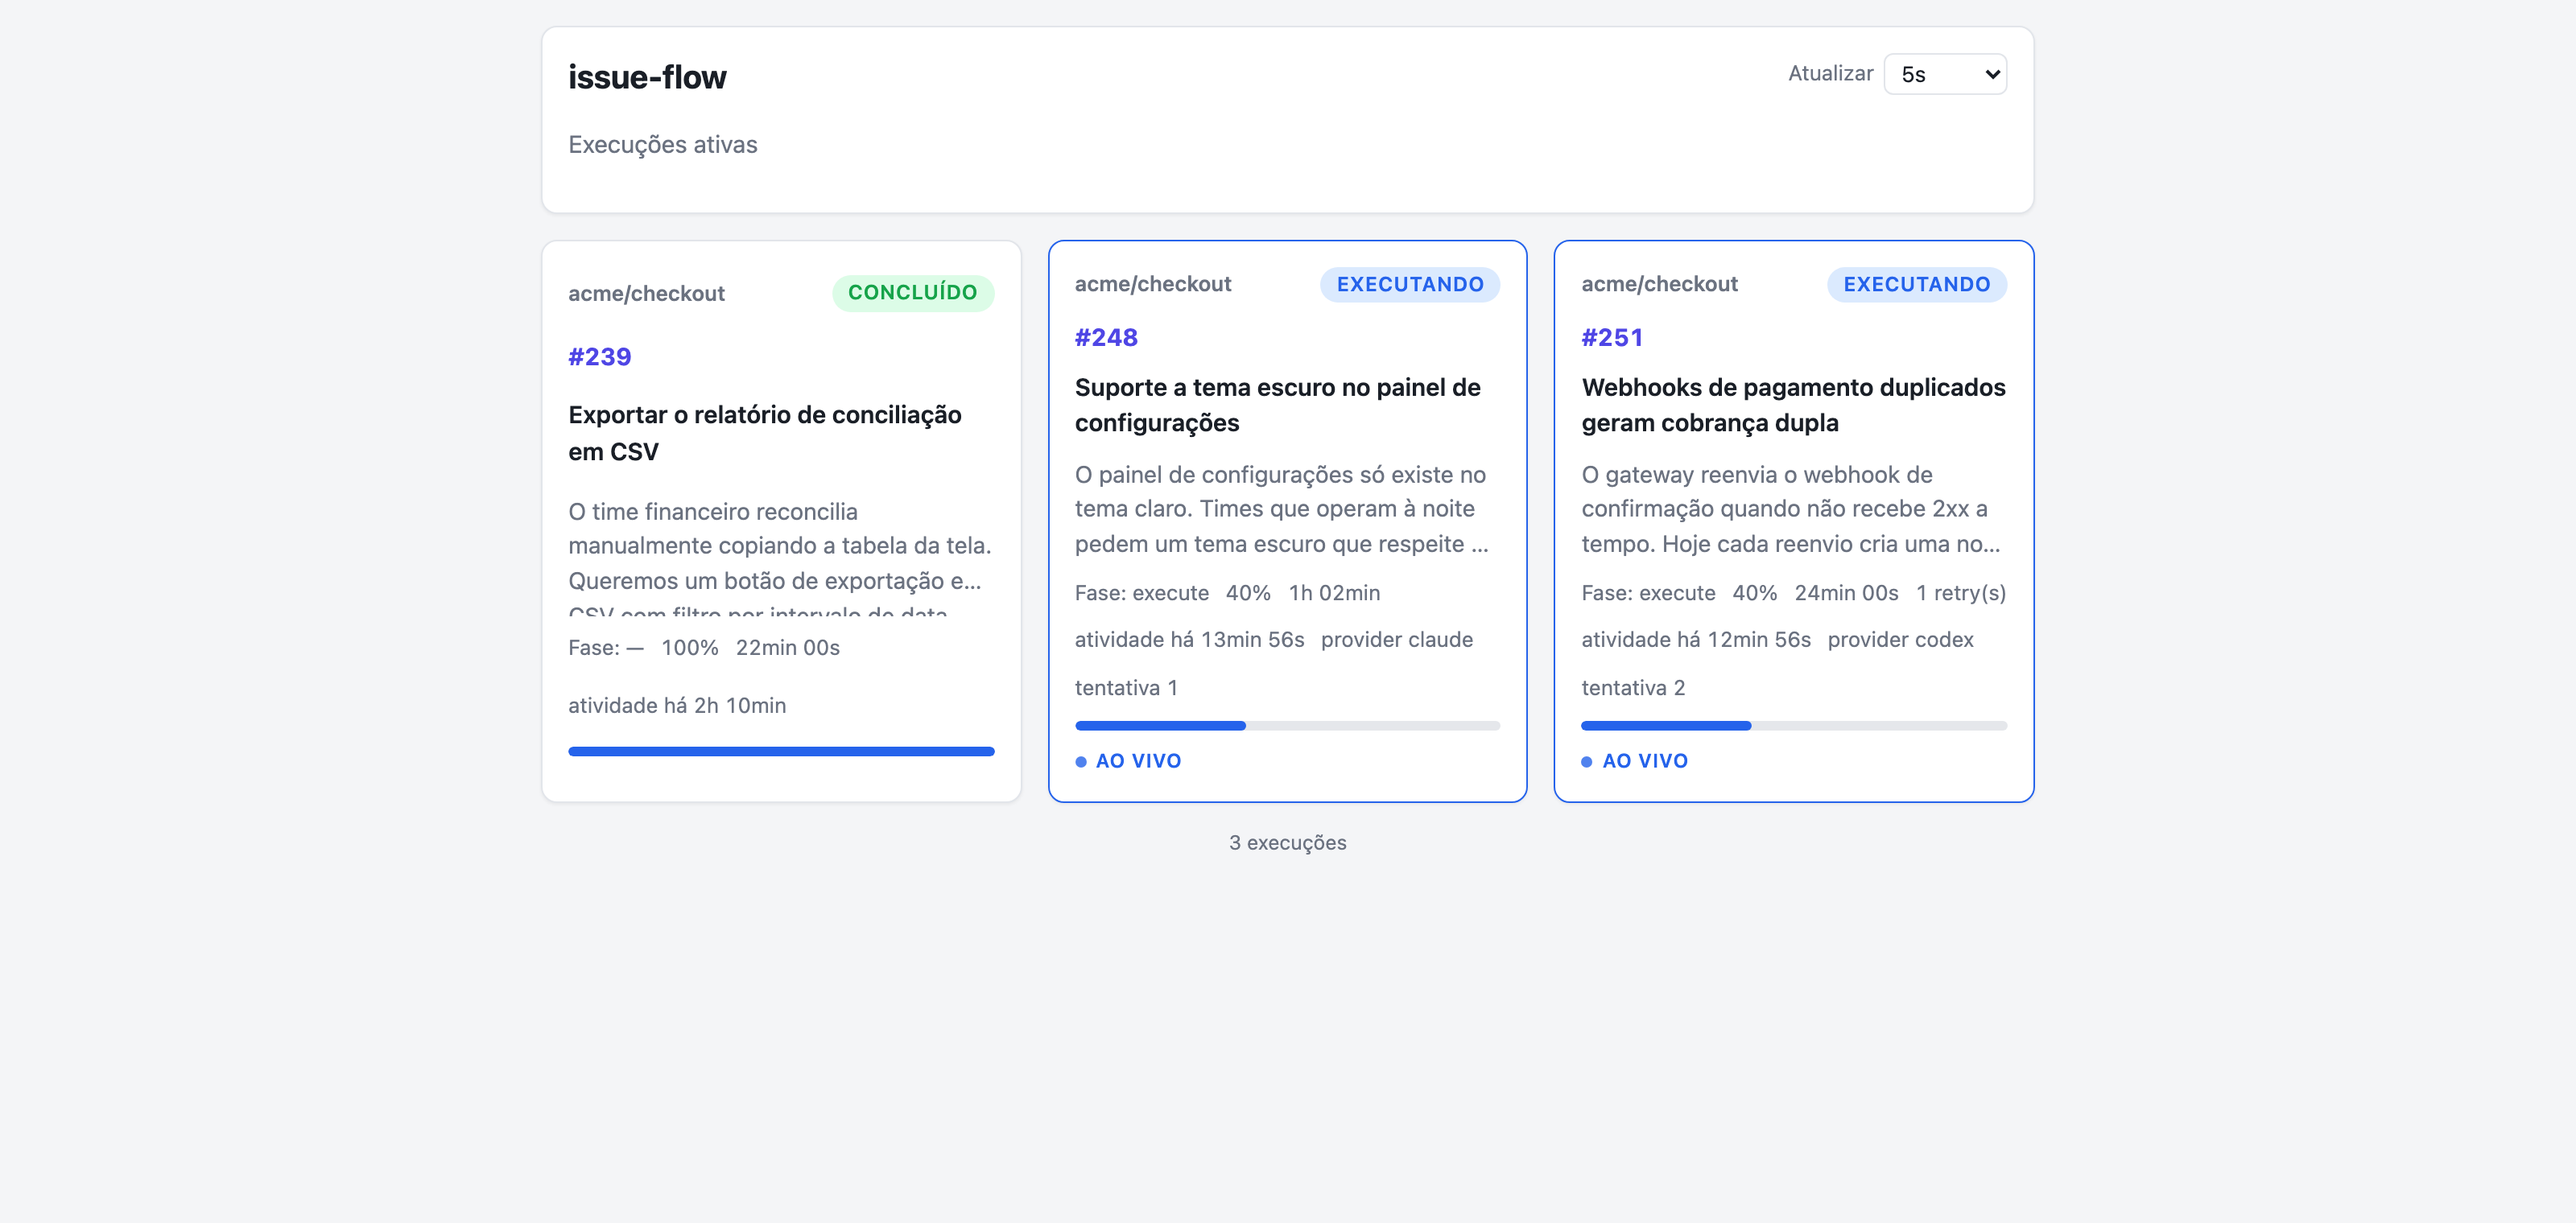
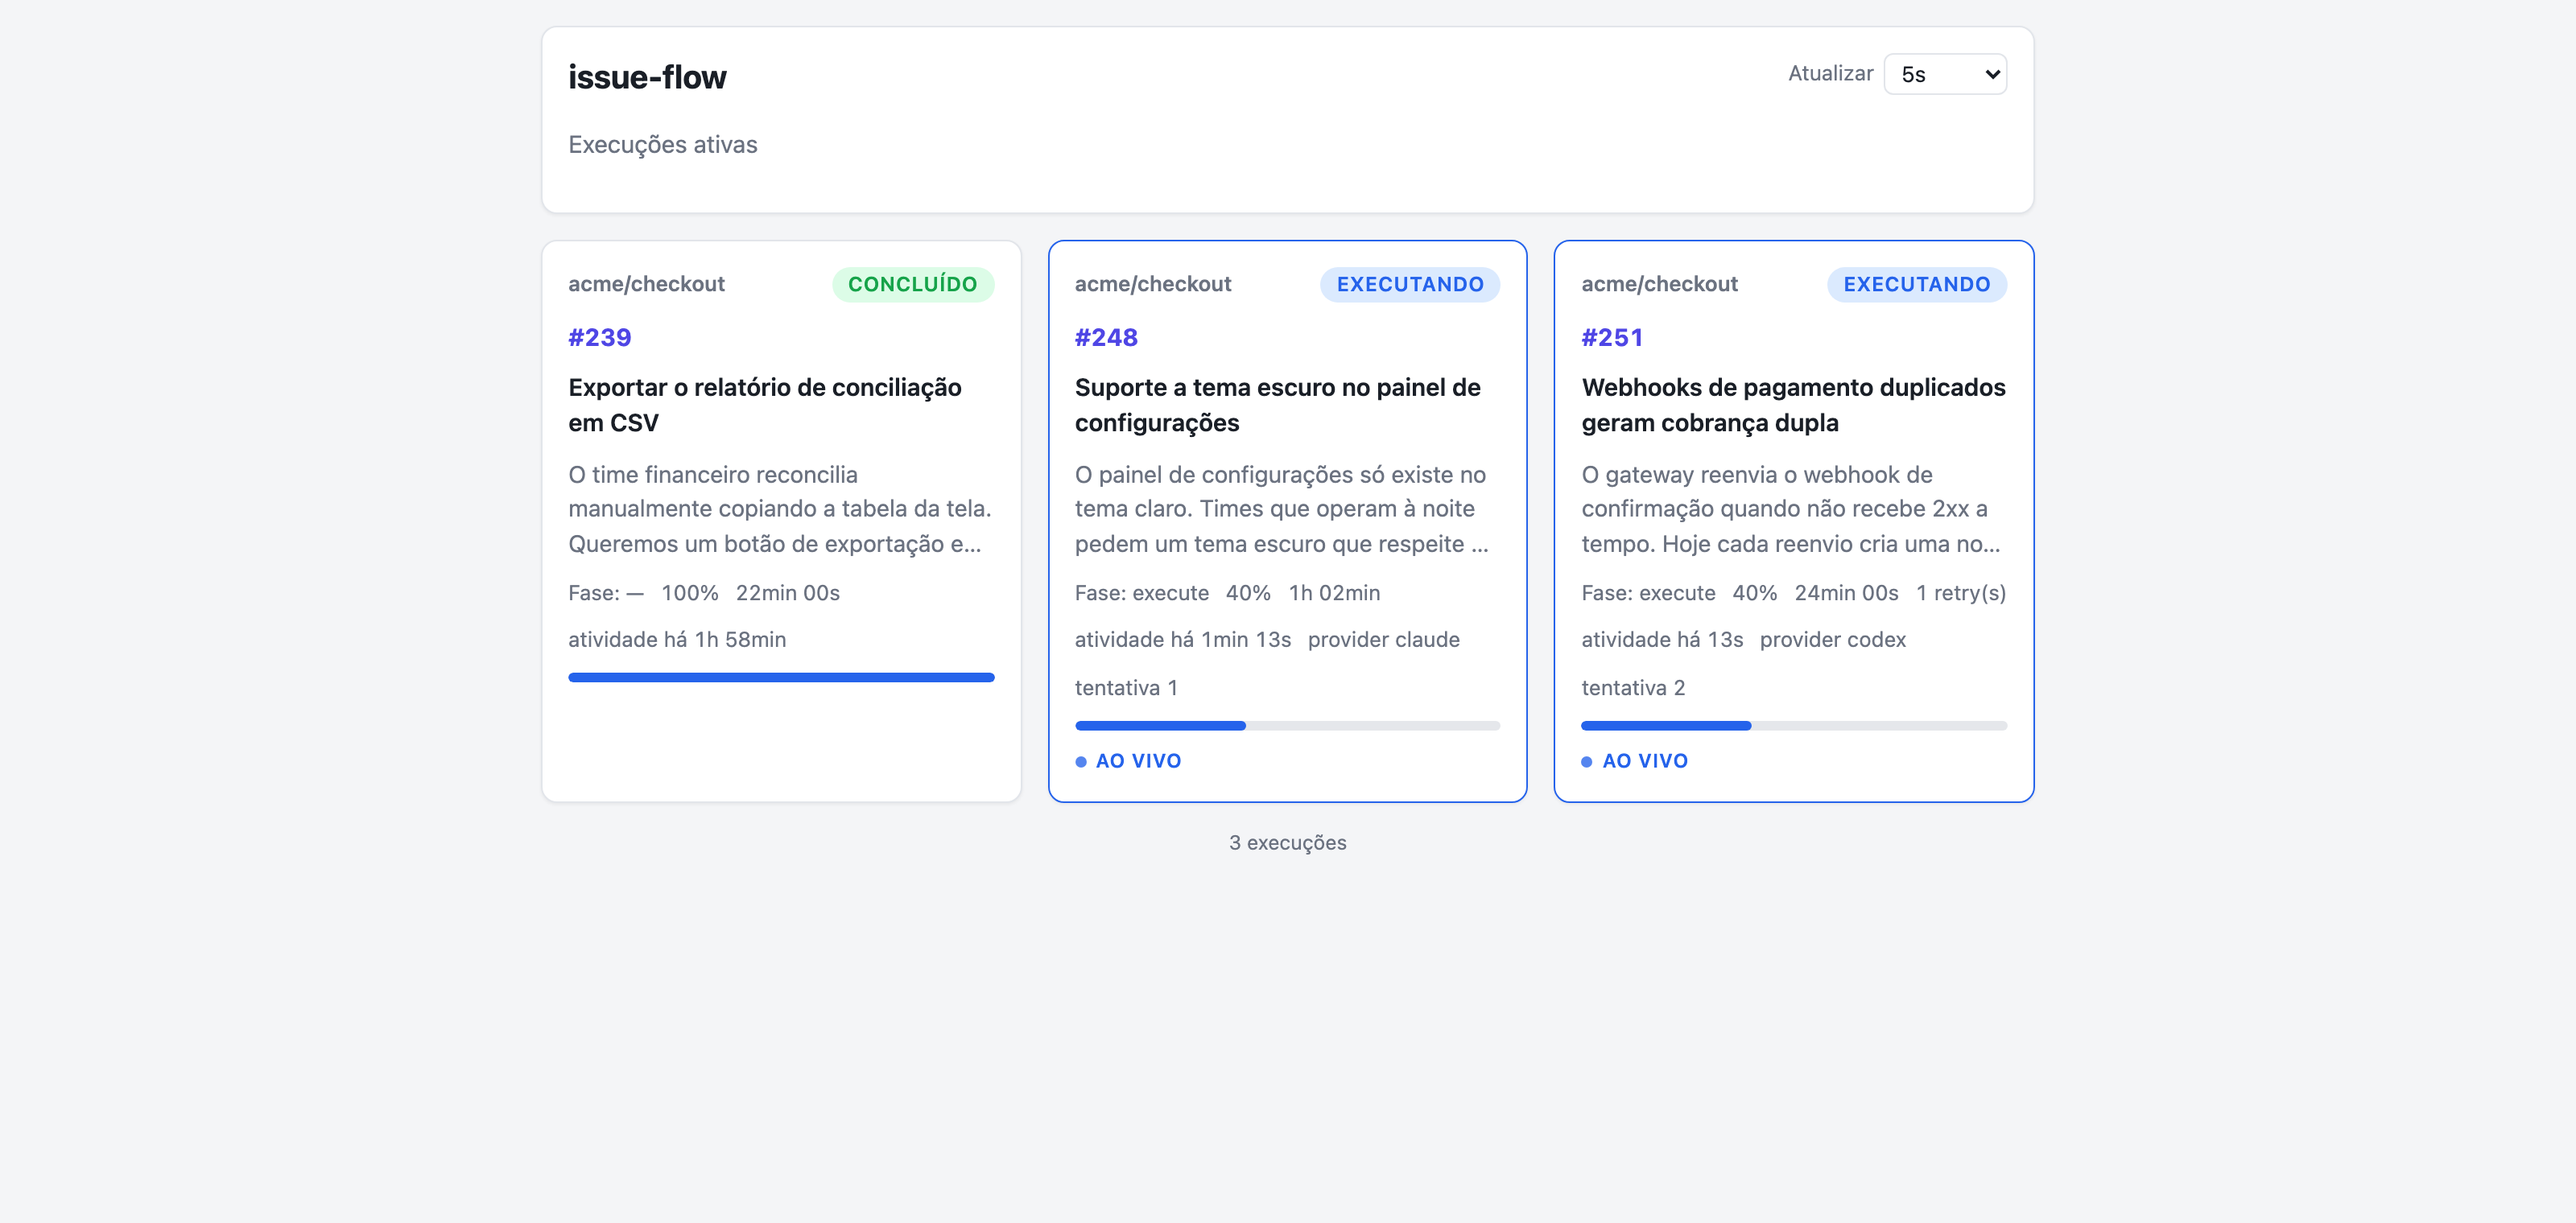
fix(web): impedir a 4ª linha vazando sob o clamp do card do dashboard
O card de execução é `display: grid` dentro de um grid que estica os cards de
uma mesma linha para a altura do mais alto. Um card com menos metadados — uma
execução concluída, sem provider nem tentativa — recebe essa sobra, e
`align-content: stretch` a distribui entre as faixas. A faixa do resumo fica
mais alta que as três linhas de `-webkit-line-clamp`, o `overflow: hidden`
deixa de cortar onde deveria, e aparece uma 4ª linha decapitada logo abaixo do
reticente que já dizia que o texto tinha acabado.

`align-content: start` empacota as faixas no topo e manda a sobra para o fim do
card, onde é só espaço em branco. Nada mais muda: o clamp, o preview truncado
no servidor e os cards que já tinham altura suficiente ficam idênticos.

As capturas de `docs/screenshots/` foram regeradas da mesma forma que da
primeira vez — publishers e reducer reais, servidor real, Playwright — e o card
#239 agora corta em três linhas como os outros.

diff --git a/packages/issue-flow/web/public/app.css b/packages/issue-flow/web/public/app.css
@@ -936,6 +936,12 @@ progress {
   font: inherit;
   cursor: pointer;
   display: grid;
+  /* O grid externo estica os cards de uma linha para a mesma altura. Sem isto,
+     `align-content: stretch` distribui a sobra entre as faixas — inclusive a do
+     resumo — e a faixa fica mais alta que as 3 linhas do clamp, deixando vazar
+     uma 4ª linha cortada por baixo do reticente. Empacotar no topo manda a
+     sobra para o fim do card, que é onde ela não engana ninguém. */
+  align-content: start;
   gap: 10px;
   transition: border-color 0.15s ease, box-shadow 0.15s ease;
 }
